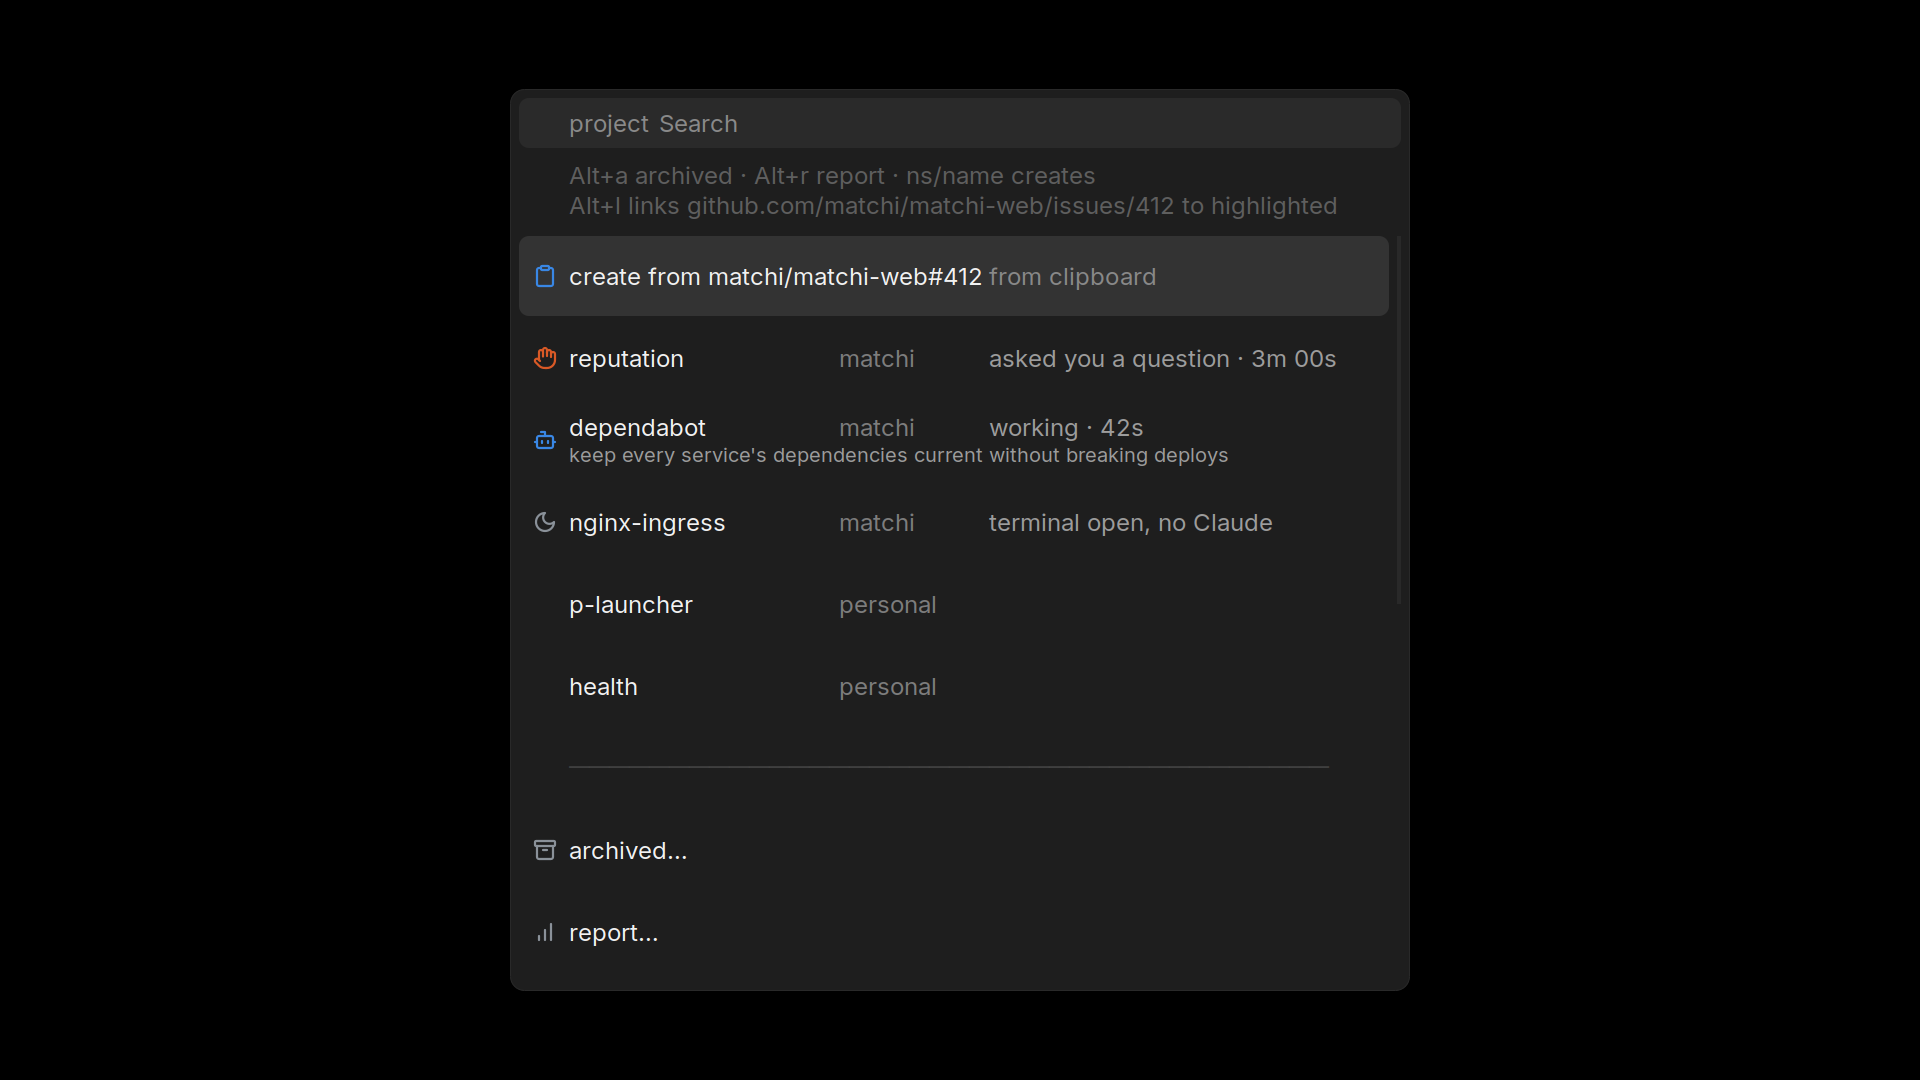
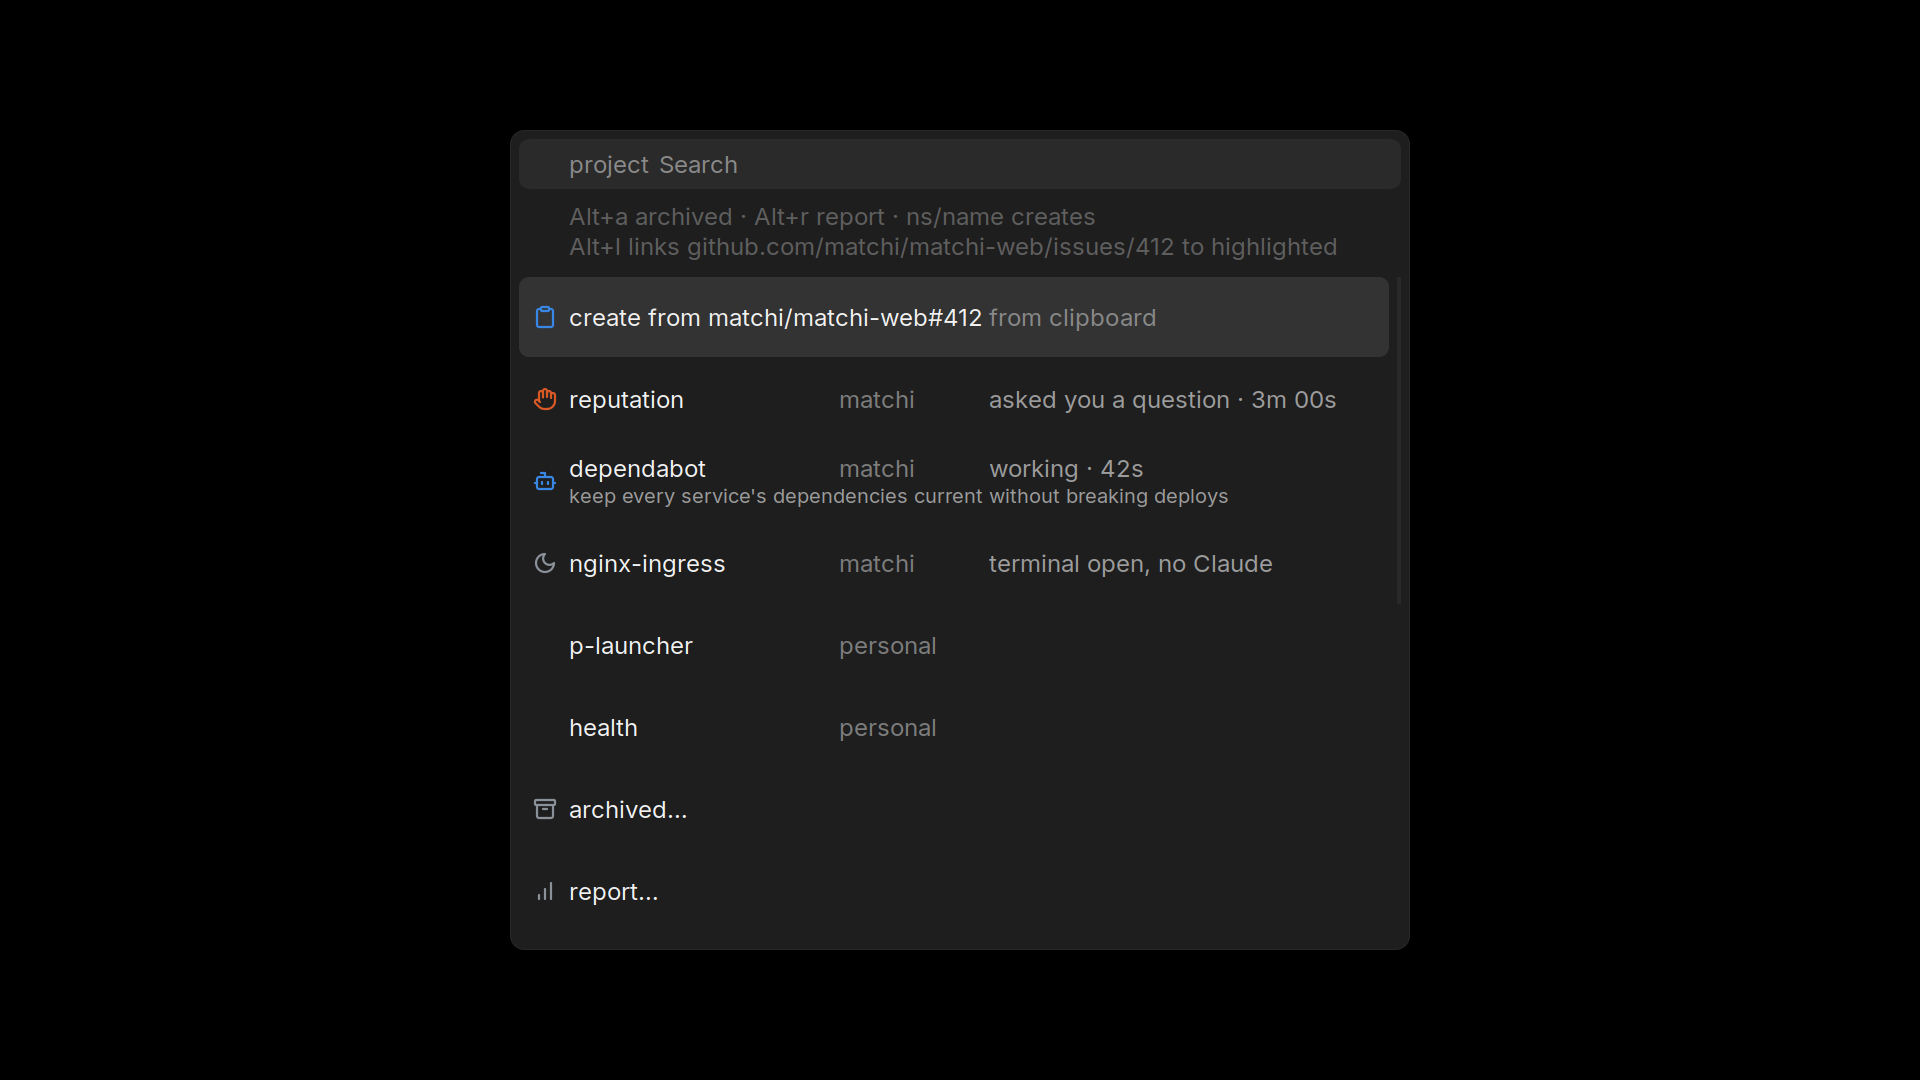
p-launcher: drop the separator row, every row costs a full row height

diff --git a/p-launcher/rows.go b/p-launcher/rows.go
@@ -2,7 +2,6 @@ package main
 
 import (
 	"html"
-	"strings"
 	"time"
 )
 
@@ -12,22 +11,18 @@ type Row struct {
 	Text         string
 	Path         string // project path; "" for docked action rows
 	Icon         string // icon name (see iconPaths), presentation only
-	Action       string // docked row action: archived | report | clip-open | clip-create | separator; "" for projects
+	Action       string // docked row action: archived | report | clip-open | clip-create; "" for projects
 	Arg          string // action argument: project path for clip-open, URL for clip-create
 	Unselectable bool   // rofi ignores Enter on the row (dmenu "nonselectable")
 	Permanent    bool   // rofi keeps the row visible whatever the filter (dmenu "permanent")
 }
 
-// separator is the dim rule between the project list and the docked rows.
-// Never selectable, never filtered away, so the docked rows below it keep
-// their place while typing.
-var separator = Row{Text: `<span alpha="25%">` + strings.Repeat("─", 38) + `</span>`, Action: "separator", Unselectable: true, Permanent: true}
-
 // Rows renders projects (already sorted) into rofi lines: the folder name,
 // then the namespace label in a muted span; the state is a row icon (see
-// stateIcon), not text. rofi's dmenu can make a row unselectable but the
-// cursor still lands on it, so grouping lives inside each row instead of in
-// heading rows; the one exception is the separator above the docked rows.
+// stateIcon), not text. rofi's dmenu can make a row unselectable
+// (Row.Unselectable) but every row costs a full row height and the cursor
+// still lands on it, so grouping lives inside each row instead of in heading
+// or separator rows (a separator was tried and removed on 2026-09-08).
 // The two columns are tab-separated and aligned by the tab-stop on
 // element-text in rofi/cards.rasinc, so the font need not be monospace. Rows are Pango markup
 // (rofi runs with -markup-rows), so names and labels are escaped.
@@ -59,7 +54,7 @@ func rowsAt(ps []Project, open map[string]bool, withTail bool, now time.Time) []
 		// Docked rows: switch to the archived list, open the report. Path ""
 		// so they never open a project; the Icon names the action. Permanent,
 		// so filtering the projects never hides them.
-		out = append(out, separator,
+		out = append(out,
 			Row{Text: "archived…", Icon: "archived", Action: "archived", Permanent: true},
 			Row{Text: "report…", Icon: "report", Action: "report", Permanent: true})
 	}

diff --git a/p-launcher/verbs_test.go b/p-launcher/verbs_test.go
@@ -30,14 +30,13 @@ func TestParseRofiOut(t *testing.T) {
 func TestRowsArchivedTail(t *testing.T) {
 	ps := []Project{{Path: "m/a", Name: "a", Label: "matchi"}}
 	rows := Rows(ps, nil, true)
-	if len(rows) != 4 || rows[1].Action != "separator" || !rows[1].Unselectable || !rows[1].Permanent || rows[1].Path != "" ||
-		rows[2].Text != "archived…" || rows[2].Action != "archived" || rows[2].Path != "" || !rows[2].Permanent ||
-		rows[3].Text != "report…" || rows[3].Action != "report" || rows[3].Path != "" || !rows[3].Permanent {
+	if len(rows) != 3 || rows[1].Text != "archived…" || rows[1].Action != "archived" || rows[1].Path != "" || !rows[1].Permanent ||
+		rows[2].Text != "report…" || rows[2].Action != "report" || rows[2].Path != "" || !rows[2].Permanent {
 		t.Fatalf("%+v", rows)
 	}
-	// encoding: options joined by \x1f after a NUL, separator carries both flags
-	in := string(rofiInput(rows, map[string]string{"archived": "/i/a.svg", "blank": "/i/b.svg"}))
-	if !strings.Contains(in, "\x00icon\x1f/i/b.svg\x1fnonselectable\x1ftrue\x1fpermanent\x1ftrue\x1e") ||
+	// encoding: options joined by \x1f after a NUL
+	in := string(rofiInput(append(rows, Row{Text: "x", Unselectable: true, Permanent: true}), map[string]string{"archived": "/i/a.svg", "blank": "/i/b.svg"}))
+	if !strings.Contains(in, "x\x00icon\x1f/i/b.svg\x1fnonselectable\x1ftrue\x1fpermanent\x1ftrue\x1e") ||
 		!strings.Contains(in, "archived…\x00icon\x1f/i/a.svg\x1fpermanent\x1ftrue\x1e") {
 		t.Fatalf("%q", in)
 	}
@@ -52,15 +51,15 @@ func TestRowsArchivedTail(t *testing.T) {
 	if arch[0].Icon != "archived" || tailOf(arch, 0) != "" {
 		t.Fatalf("%+v", arch[0])
 	}
-	for _, i := range []int{1, 2, 3} {
+	for _, i := range []int{1, 2} {
 		if _, ok := selectRow(rows, i); ok {
 			t.Fatal("tail row must not open anything")
 		}
 	}
-	if tailOf(rows, 1) != "separator" || tailOf(rows, 2) != "archived" || tailOf(rows, 3) != "report" || tailOf(rows, 0) != "" || tailOf(rows, 5) != "" || tailOf(rows, -1) != "" {
+	if tailOf(rows, 1) != "archived" || tailOf(rows, 2) != "report" || tailOf(rows, 0) != "" || tailOf(rows, 5) != "" || tailOf(rows, -1) != "" {
 		t.Fatal("tail detection")
 	}
-	if !isArchivedTail(rows, 2) || isArchivedTail(rows, 3) {
+	if !isArchivedTail(rows, 1) || isArchivedTail(rows, 2) {
 		t.Fatal("archived tail detection")
 	}
 	if got := Rows(ps, nil, false); len(got) != 1 {
